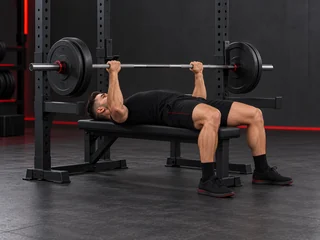
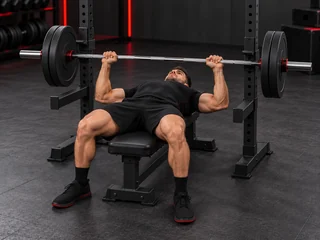
fix: refine canonical movement studies visuals

diff --git a/tests/playwright/exercise-visuals.spec.js b/tests/playwright/exercise-visuals.spec.js
@@ -22,7 +22,11 @@ const beginnerExerciseIds = [
   'bodyweight.glute_bridge',
   'bodyweight.plank'
 ];
-const assetPath = (id, variant) => `/static/exercise/visuals/v1/${id}--${variant}.webp`;
+const assetPath = (id, variant) => `/static/exercise/visuals/v1/${id}--${variant}.webp?v=canonical-workout-r4`;
+const refinedExerciseIds = [
+  'barbell.bench_press', 'cable.pull_through', 'bodyweight.wall_push_up',
+  'bodyweight.push_up', 'bodyweight.glute_bridge'
+];
 const realWorkoutIds = [
   'dumbbell.goblet_squat', 'dumbbell.floor_press', 'bodyweight.table_row',
   'bodyweight.glute_bridge', 'bodyweight.plank', 'bodyweight.march_in_place'
@@ -162,6 +166,66 @@ test.describe('complete canonical Movement Studies library', () => {
   });
 });
 
+test.describe('five refined Movement Studies pairs', () => {
+  for (const language of ['bg', 'en']) {
+    for (const width of [390, 360]) {
+      test(`corrected cards and protocols preserve identity in ${language} at ${width}px`, async ({ page }, testInfo) => {
+        await page.setViewportSize({ width, height: width === 390 ? 844 : 800 });
+        await mountWorkout(page, language, refinedExerciseIds);
+        const source = await page.evaluate(() => JSON.stringify(pendingTrainingCompletion));
+        const cards = page.locator('.workout-exercise-card');
+        await expect(cards).toHaveCount(5);
+        await expect(cards.locator('.exercise-visual.is-fallback')).toHaveCount(0);
+        for (const [index, id] of refinedExerciseIds.entries()) {
+          const hero = cards.nth(index).locator('.workout-card-hero');
+          const visual = hero.locator('.exercise-visual');
+          await expect(visual).toHaveAttribute('data-exercise-visual-id', id);
+          await expect(visual.locator('img')).toHaveAttribute('src', assetPath(id, 'thumb'));
+          await expect(visual.locator('img')).toHaveAttribute('alt', await page.evaluate(
+            ({ id, language }) => ApexExerciseVisuals.resolve(id).alt[language], { id, language }
+          ));
+          await expectLoaded(visual.locator('img'));
+          const bounds = await visual.boundingBox();
+          expect([bounds.width, bounds.height]).toEqual([80, 60]);
+          expect(await hero.evaluate(hero => {
+            const bounds = hero.getBoundingClientRect();
+            return [...hero.querySelectorAll('.exercise-visual, .ex-name, .ex-diff')].every(element => {
+              const rect = element.getBoundingClientRect();
+              return rect.left >= bounds.left && rect.right <= bounds.right + 1
+                && element.scrollWidth <= element.clientWidth + 1;
+            });
+          })).toBe(true);
+          if (index < 2) {
+            await hero.screenshot({ path: testInfo.outputPath(`${id}-${language}-${width}-card.png`) });
+            await visual.screenshot({ path: testInfo.outputPath(`${id}-${language}-${width}-thumb-80x60.png`) });
+          }
+        }
+        expect(await page.evaluate(() => document.documentElement.scrollWidth <= innerWidth)).toBe(true);
+        await page.locator('.start-wo').click();
+        for (const [index, id] of refinedExerciseIds.entries()) {
+          await page.evaluate(index => { WO.i = index; WO.set = 0; renderWO(); }, index);
+          const visual = page.locator('#wo-stage > .exercise-visual-protocol');
+          await expect(visual).not.toHaveClass(/is-fallback/);
+          await expect(visual).toHaveAttribute('data-exercise-visual-id', id);
+          await expect(visual.locator('img')).toHaveAttribute('src', assetPath(id, 'protocol'));
+          await expectLoaded(visual.locator('img'));
+          const bounds = await visual.boundingBox();
+          expect([bounds.width, bounds.height]).toEqual([160, 120]);
+          await expect(visual).toBeInViewport();
+          await expect(page.locator('button[onclick="completeSet()"]')).toBeInViewport();
+          expect(await page.evaluate(() => document.documentElement.scrollWidth <= innerWidth)).toBe(true);
+          if (index < 2) {
+            await visual.screenshot({ path: testInfo.outputPath(`${id}-${language}-${width}-protocol-160x120.png`) });
+            await page.screenshot({ path: testInfo.outputPath(`${id}-${language}-${width}-active.png`) });
+          }
+        }
+        expect(await page.evaluate(() => JSON.stringify(pendingTrainingCompletion))).toBe(source);
+        await page.evaluate(() => quitWorkout());
+      });
+    }
+  }
+});
+
 test.describe('canonical exercise visuals', () => {
   for (const language of ['bg', 'en']) {
     test(`five approved thumbs use canonical IDs and localized alt text in ${language}`, async ({ page }) => {
@@ -247,7 +311,7 @@ test.describe('canonical exercise visuals', () => {
   });
 
   test('failed approved assets preserve geometry, controls and typed completion', async ({ page }) => {
-    await page.route('**/static/exercise/visuals/v1/*.webp', route => route.abort());
+    await page.route('**/static/exercise/visuals/v1/*.webp*', route => route.abort());
     await mountWorkout(page, 'en', ['bodyweight.hollow_hold']);
     const cardVisual = page.locator('.workout-exercise-card .exercise-visual');
     await cardVisual.scrollIntoViewIfNeeded();
@@ -292,7 +356,7 @@ test.describe('canonical exercise visuals', () => {
     let releaseImages, imageRequested;
     const blocked = new Promise(resolve => { releaseImages = resolve; });
     const requested = new Promise(resolve => { imageRequested = resolve; });
-    await page.route('**/static/exercise/visuals/v1/*.webp', async route => {
+    await page.route('**/static/exercise/visuals/v1/*.webp*', async route => {
       imageRequested();
       await blocked;
       await route.abort();
@@ -395,7 +459,7 @@ test.describe('beginner Movement Studies pack', () => {
       for (const [variant, dimensions] of [['thumb', [320, 240]], ['protocol', [960, 720]]]) {
         const src = assetPath(id, variant);
         expect(entry[variant]).toBe(src);
-        const bytes = fs.readFileSync(path.join(__dirname, '../..', src));
+        const bytes = fs.readFileSync(path.join(__dirname, '../..', new URL(src, 'http://apex.test').pathname));
         expect(bytes.subarray(0, 4).toString()).toBe('RIFF');
         expect(bytes.subarray(8, 12).toString()).toBe('WEBP');
         const response = await request.get(src);

diff --git a/static/exercise/visuals/v1/manifest.js b/static/exercise/visuals/v1/manifest.js
@@ -163,13 +163,17 @@
       en: 'Two-dumbbell push press setup with a shallow knee dip before leg drive'
     }
   };
+  // Inherit the app shell's shared revision instead of maintaining a second token.
+  const script = global.document && global.document.currentScript;
+  const revision = script ? new URL(script.src).searchParams.get('v') : null;
+  const suffix = revision ? '?v=' + encodeURIComponent(revision) : '';
   const entries = Object.create(null);
   Object.keys(descriptions).forEach(function (exerciseId) {
     const base = '/static/exercise/visuals/v1/' + exerciseId;
     entries[exerciseId] = Object.freeze({
       exercise_id: exerciseId,
-      thumb: base + '--thumb.webp',
-      protocol: base + '--protocol.webp',
+      thumb: base + '--thumb.webp' + suffix,
+      protocol: base + '--protocol.webp' + suffix,
       alt: Object.freeze(descriptions[exerciseId])
     });
   });

diff --git a/templates/apex.html b/templates/apex.html
@@ -832,8 +832,9 @@ a{color:inherit;text-decoration:none;} /* brand anchor must never inherit blue/p
   <linearGradient id="restgrad" x1="0" y1="0" x2="1" y2="1"><stop offset="0" stop-color="#F5212D"/><stop offset="1" stop-color="#FFB13C"/></linearGradient>
 </defs></svg>
 
-<script src="/static/exercise_instruction_library.js?v=canonical-workout-r3"></script>
-<script src="/static/exercise/visuals/v1/manifest.js?v=canonical-workout-r3"></script>
+{% set canonical_workout_revision = 'canonical-workout-r4' %}
+<script src="/static/exercise_instruction_library.js?v={{ canonical_workout_revision }}"></script>
+<script src="/static/exercise/visuals/v1/manifest.js?v={{ canonical_workout_revision }}"></script>
 <script>
 /* Account-owned browser data. Bare legacy keys are claimed only by the current
    anonymous browser identity and are never uploaded into an account. */

diff --git a/tests/test_exercise_visual_coverage.py b/tests/test_exercise_visual_coverage.py
@@ -1,10 +1,12 @@
 """Every live registry identity requires exact, bilingual, local visual coverage."""
 import hashlib
+from html.parser import HTMLParser
 import json
 from pathlib import Path
 import shutil
 import struct
 import subprocess
+from urllib.parse import parse_qs, urlsplit
 
 import pytest
 
@@ -15,6 +17,24 @@ from training_engine import load_exercise_library
 ROOT = Path(__file__).parents[1]
 
 
+def _manifest_source():
+    class Scripts(HTMLParser):
+        def __init__(self):
+            super().__init__()
+            self.sources = []
+
+        def handle_starttag(self, tag, attrs):
+            if tag == "script":
+                source = dict(attrs).get("src", "")
+                if urlsplit(source).path == "/static/exercise/visuals/v1/manifest.js":
+                    self.sources.append(source)
+
+    parser = Scripts()
+    parser.feed(appmod.app.test_client().get("/app").get_data(as_text=True))
+    assert len(parser.sources) == 1
+    return parser.sources[0]
+
+
 @pytest.fixture(scope="module")
 def registry_visuals():
     ids = [exercise.exercise_id for exercise in load_exercise_library().exercises]
@@ -23,7 +43,7 @@ def registry_visuals():
     script = r"""
 const fs = require('node:fs');
 const vm = require('node:vm');
-const context = { window: {} };
+const context = { URL, window: { document: { currentScript: { src: process.argv[2] } } } };
 vm.runInNewContext(fs.readFileSync(process.argv[1], 'utf8'), context);
 const api = context.window.ApexExerciseVisuals;
 const ids = JSON.parse(fs.readFileSync(0, 'utf8'));
@@ -34,7 +54,8 @@ process.stdout.write(JSON.stringify({
 }));
 """
     result = subprocess.run(
-        [node, "-e", script, str(ROOT / "static/exercise/visuals/v1/manifest.js")],
+        [node, "-e", script, str(ROOT / "static/exercise/visuals/v1/manifest.js"),
+         "https://apex.test" + _manifest_source()],
         input=json.dumps(ids), capture_output=True, text=True, encoding="utf-8", check=True,
     )
     resolved = json.loads(result.stdout)
@@ -69,13 +90,17 @@ def test_every_current_registry_id_has_exact_bilingual_visuals(registry_visuals)
     # This set comes from the current registry, so a future uncovered ID fails.
     missing = [identity for identity, entry in registry_visuals.items() if entry is None]
     assert missing == [], f"Missing canonical artwork: {missing}"
+    expected_query = parse_qs(urlsplit(_manifest_source()).query)
     for identity, entry in registry_visuals.items():
         assert entry["exercise_id"] == identity
         assert set(entry["alt"]) == {"bg", "en"}
         assert all(value.strip() for value in entry["alt"].values())
         assert entry["alt"]["bg"] != entry["alt"]["en"]
         for variant in ("thumb", "protocol"):
-            assert entry[variant] == f"/static/exercise/visuals/v1/{identity}--{variant}.webp"
+            url = urlsplit(entry[variant])
+            assert url.path == f"/static/exercise/visuals/v1/{identity}--{variant}.webp"
+            assert parse_qs(url.query) == expected_query
+            assert parse_qs(url.query) == {"v": ["canonical-workout-r4"]}
 
 
 def test_every_resolved_visual_is_unique_exact_webp_and_http_200(registry_visuals):
@@ -85,7 +110,7 @@ def test_every_resolved_visual_is_unique_exact_webp_and_http_200(registry_visual
     for identity, entry in registry_visuals.items():
         assert entry is not None, identity
         for variant, dimensions in (("thumb", (320, 240)), ("protocol", (960, 720))):
-            path = ROOT / entry[variant].lstrip("/")
+            path = ROOT / urlsplit(entry[variant]).path.lstrip("/")
             expected_files.add(path.name)
             assert path.is_file(), identity
             data = path.read_bytes()
@@ -101,3 +126,22 @@ def test_every_resolved_visual_is_unique_exact_webp_and_http_200(registry_visual
             assert not response.cache_control.no_store
     actual_files = {path.name for path in (ROOT / "static/exercise/visuals/v1").glob("*.webp")}
     assert actual_files == expected_files
+
+
+def test_image_revision_is_inherited_from_script_url_not_a_separate_token():
+    script = r"""
+const fs = require('node:fs');
+const vm = require('node:vm');
+const context = { URL, window: { document: { currentScript: {
+  src: 'https://apex.test/static/exercise/visuals/v1/manifest.js?v=release-check'
+} } } };
+vm.runInNewContext(fs.readFileSync(process.argv[1], 'utf8'), context);
+process.stdout.write(JSON.stringify(context.window.ApexExerciseVisuals.resolve('barbell.bench_press')));
+"""
+    result = subprocess.run(
+        [shutil.which("node"), "-e", script, str(ROOT / "static/exercise/visuals/v1/manifest.js")],
+        capture_output=True, text=True, check=True,
+    )
+    entry = json.loads(result.stdout)
+    for variant in ("thumb", "protocol"):
+        assert parse_qs(urlsplit(entry[variant]).query) == {"v": ["release-check"]}

diff --git a/tests/test_app_cache.py b/tests/test_app_cache.py
@@ -42,7 +42,7 @@ def test_app_shell_versions_canonical_mutable_assets_with_one_release_revision(p
         assert asset_response.cache_control.no_store is False
         assert asset_response.headers["ETag"]
     # Bump this shared explicit revision when either canonical mutable asset changes.
-    assert revisions == ["canonical-workout-r3", "canonical-workout-r3"]
+    assert revisions == ["canonical-workout-r4", "canonical-workout-r4"]
 
 
 @pytest.mark.parametrize("path", ["/app", "/app?lang=en", "/app?lang=bg"])

diff --git a/docs/exercise-visuals-r4-refinement.md b/docs/exercise-visuals-r4-refinement.md
@@ -1,0 +1,57 @@
+# Movement Studies r4 Refinement
+
+Baseline: `3c343bdf41b7c48cc904545693e8358be611f92b`.
+Mode: built-in image generation, reference-guided edits of the existing artwork.
+Only these five canonical pairs are replaced; the other 70 WebP files remain
+byte-for-byte unchanged. No exercise identity, instruction, prescription,
+renderer, Core, training policy, database or global static-cache change.
+
+## Final Assets and Prompt Set
+
+Final directory: `static/exercise/visuals/v1/`.
+Filenames remain `<exercise_id>--thumb.webp` and
+`<exercise_id>--protocol.webp`. Each pair is derived from one reviewed source,
+with Lanczos resizing, WebP quality 86 / method 6, and no pose-changing crop.
+Thumbs are 320 x 240; protocols are 960 x 720.
+
+Shared visual invariants: photographic realism, charcoal gym, black performance
+clothing, restrained red accents, consistent directional lighting, no text,
+logos, watermark, extra limbs or decorative overlays.
+
+| Canonical ID | Reference / Edit Specification | Selected Source Filename |
+| --- | --- | --- |
+| `barbell.bench_press` | Existing target plus approved dumbbell bench press style reference. Rebuild from a slightly elevated foot-end three-quarter camera: transverse bar above mid-chest, symmetric grip, complete shoulder/upper-arm/elbow/forearm/wrist connections, grounded feet and normal bench/rack setup. Follow-up removes all plate lettering, retaining plain matte graphite plates and all corrected anatomy. | `exec-f5afe555-aed5-4fd4-a632-df857f59c811.png` |
+| `cable.pull_through` | Existing target. Tighten the frame while keeping the low pulley, taut cable route between the legs, textured rope and both hands gripping its end stoppers visible. Preserve neutral hip-hinge anatomy. Follow-up replaces footwear with plain black lace-up training shoes and restrained red soles, without branding. | `exec-a8b800ca-1673-491d-b22f-c0e47c3264eb.png` |
+| `bodyweight.wall_push_up` | Existing target. Change footwear only: remove swooshes, emblems, lettering and labels from both shoes; use plain black/red footwear. Preserve athlete, wall push-up pose, hands, alignment, floor contact, camera and lighting. | `exec-b349e531-fab2-426a-85ae-a564e4d00c5d.png` |
+| `bodyweight.push_up` | Existing target. Same footwear-only correction; preserve push-up anatomy, hand placement, aligned torso, feet, camera and environment. | `exec-9a5ff180-ea78-49c5-9963-326bd9285836.png` |
+| `bodyweight.glute_bridge` | Existing target. Same footwear-only correction; preserve hip height, bent knees, grounded feet, hands beside torso, head on floor, camera and environment. | `exec-4fdff264-bb3d-4217-9b6f-6f75aa632318.png` |
+
+## Cache Authority
+
+The app template defines `canonical_workout_revision` once as
+`canonical-workout-r4`. Both mutable script URLs use that value.
+The manifest reads its own `document.currentScript.src` revision and appends
+the same query to both image variants for every ID. It has no separately
+hardcoded release token. Static cache configuration remains unchanged.
+
+## QA and Validation
+
+- All ten exported assets visually inspected at full protocol resolution and
+  actual 80 x 60 / 160 x 120 UI sizes; matching thumb/protocol poses.
+- Bench press: transverse chest-height bar, symmetric grip, connected arms,
+  grounded feet and recognizable bench setup; no plate lettering.
+- Pull-through: visible low pulley, cable, between-leg rope and grip; tighter
+  framing distinguishes it from an unloaded hinge.
+- Wall push-up, push-up and glute bridge: original movement retained, visible
+  third-party footwear branding removed.
+- Narrow Python visual coverage / app cache / canonical delivery: 18 passed.
+- Chromium visual coverage / canonical delivery: 49 passed, zero failures.
+- Live registry: 40/40 canonical visual entries; 80/80 WebP responses HTTP 200
+  with exact dimensions and successful Chromium decoding.
+- Five corrected cards and protocols: no fallback in BG and EN at 390 and
+  360 pixels; no horizontal overflow; completion metadata unchanged.
+- Bench press and pull-through screenshot evidence captured at actual card
+  and active-protocol sizes in all four language/viewport combinations and
+  visually inspected. Neutral unknown-ID / missing-asset fallback remains safe.
+- Changed JavaScript syntax, changed Python compilation and `git diff --check`
+  passed. Full repository suites were not run.
